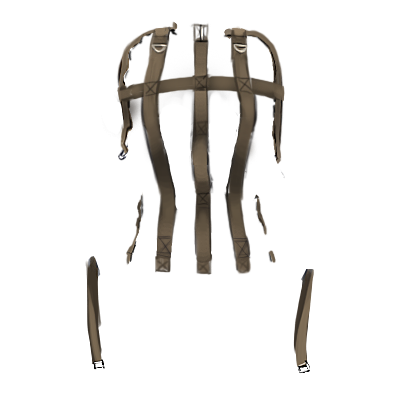
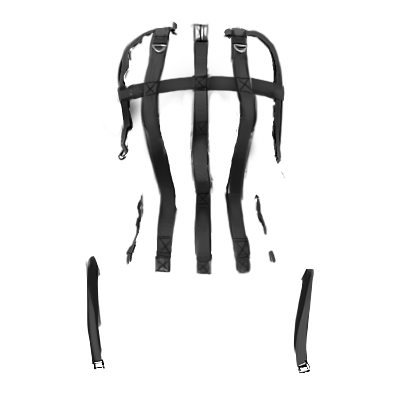
Reworks straitjacket strap colouring and regenerates preview images

diff --git a/BondageClub/Assets/Female3DCG/Female3DCG.js b/BondageClub/Assets/Female3DCG/Female3DCG.js
@@ -1560,7 +1560,7 @@ var AssetFemale3DCG = [
 					{ Name: "Highlights", AllowColorize: false }
 				]
 			},
-			{ Name: "HighSecurityStraitJacket", Value: 220, Priority: 23, Difficulty: 4, SelfBondage: 2, Time: 45, RemoveTime: 30, /*AllowLock: true,*/ DefaultColor: "#a29570", Hide: ["Cloth", "ItemNipplesPiercings"], SetPose: ["BackElbowTouch"], Effect: ["Block", "Prone"],
+			{ Name: "HighSecurityStraitJacket", Value: 220, Priority: 23, Difficulty: 4, SelfBondage: 2, Time: 45, RemoveTime: 30, /*AllowLock: true,*/ DefaultColor: "#333", Hide: ["Cloth", "ItemNipplesPiercings"], SetPose: ["BackElbowTouch"], Effect: ["Block", "Prone"],
 				AllowBlock: ["ItemNipples", "ItemNipplesPiercings", "ItemTorso", "ItemBreast", "ItemHands", "ItemVulva", "ItemVulvaPiercings", "ItemButt", "ItemPelvis"],
 				AllowType: ["c0a0s0", "c0a0s1", "c0a0s2", "c0a0s3", "c0a1s0", "c0a1s1", "c0a1s2", "c0a1s3", "c0a2s0", "c0a2s1", "c0a2s2", "c0a2s3", "c1a0s0", "c1a0s1", "c1a0s2", "c1a0s3", "c1a1s0", "c1a1s1", "c1a1s2", "c1a1s3", "c1a2s0", "c1a2s1", "c1a2s2", "c1a2s3"],
 				Block: ["ItemNipples", "ItemNipplesPiercings", "ItemTorso", "ItemBreast", "ItemHands"],
